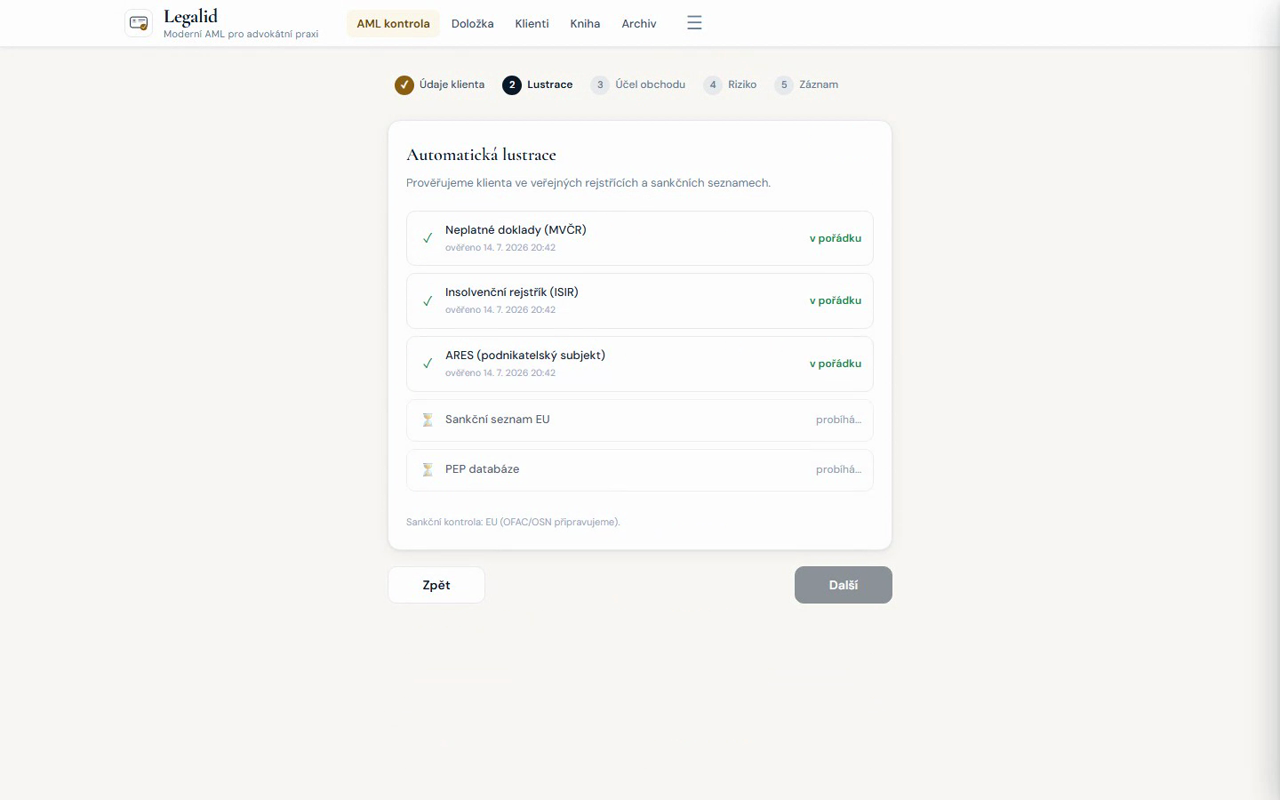
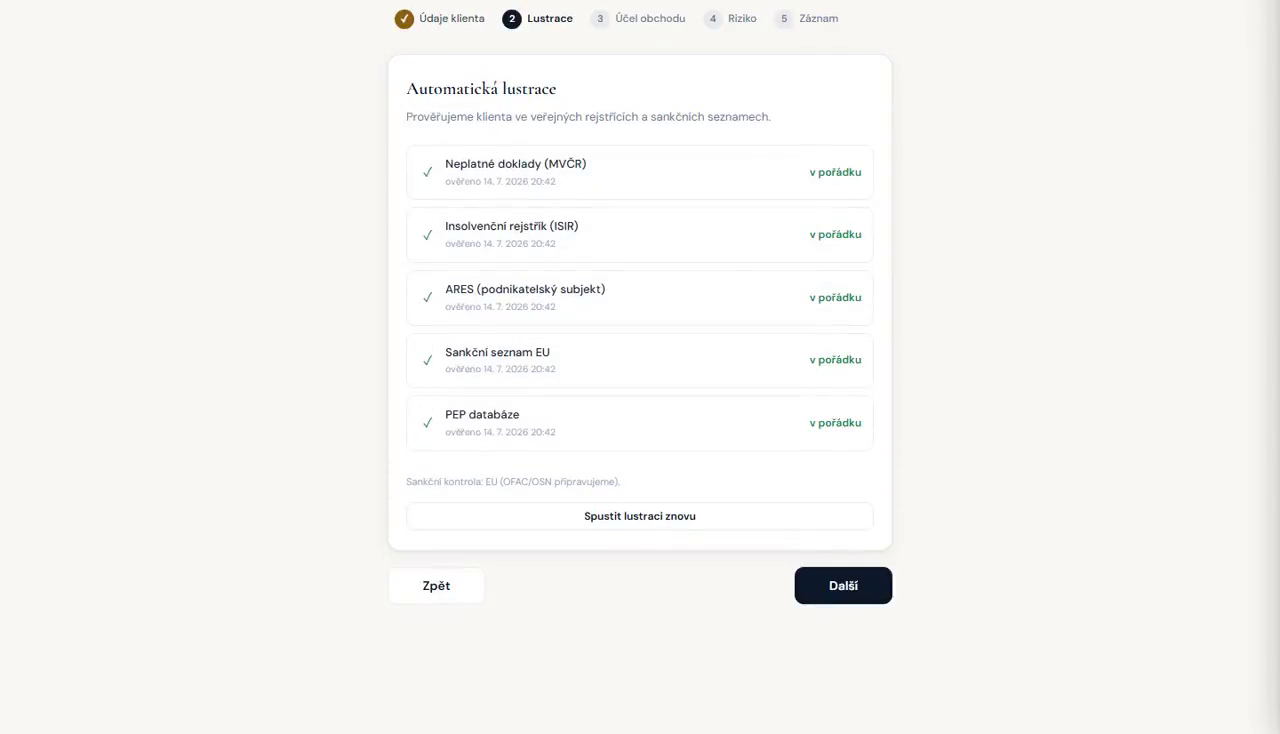
fix(landing): ořez starého headeru z demo videa (větev: OŘEZ)
Zvolena větev OŘEZ (ne fallback na poster) — ořez prošel kontrolou:
horní header aplikace (logo + „Moderní AML pro advokátní praxi" + menu) šel
čistě odstřihnout, aniž by se dotkl obsahu wizardu.

- zdroj assets/landing/wizard-demo.mp4 (1280×800), crop=1280:734:0:66
  (odstřihnut header + ~10px padding nad step indikátorem), scale=1280:-2,
  fps=24, libx264 crf 28, -an, +faststart → 127 KB
- poster wizard-demo.png = poslední frame (5× „v pořádku", zelené) → 110 KB
- ověřeno na 3 framech: žádný header ani text „advokátní praxi", step
  indikátor celý, karta lustrace zespodu neuříznutá
- landing.js beze změny (stejné názvy souborů); bump SW cache v49→v50, aby se
  nové assety (cache-first) dostaly k vracejícím se uživatelům

diff --git a/sw.js b/sw.js
@@ -1,4 +1,4 @@
-const CACHE = 'legalid-v49'; // ← BUMP při každém deployi
+const CACHE = 'legalid-v50'; // ← BUMP při každém deployi
 
 const APP_SHELL = [
   '/',